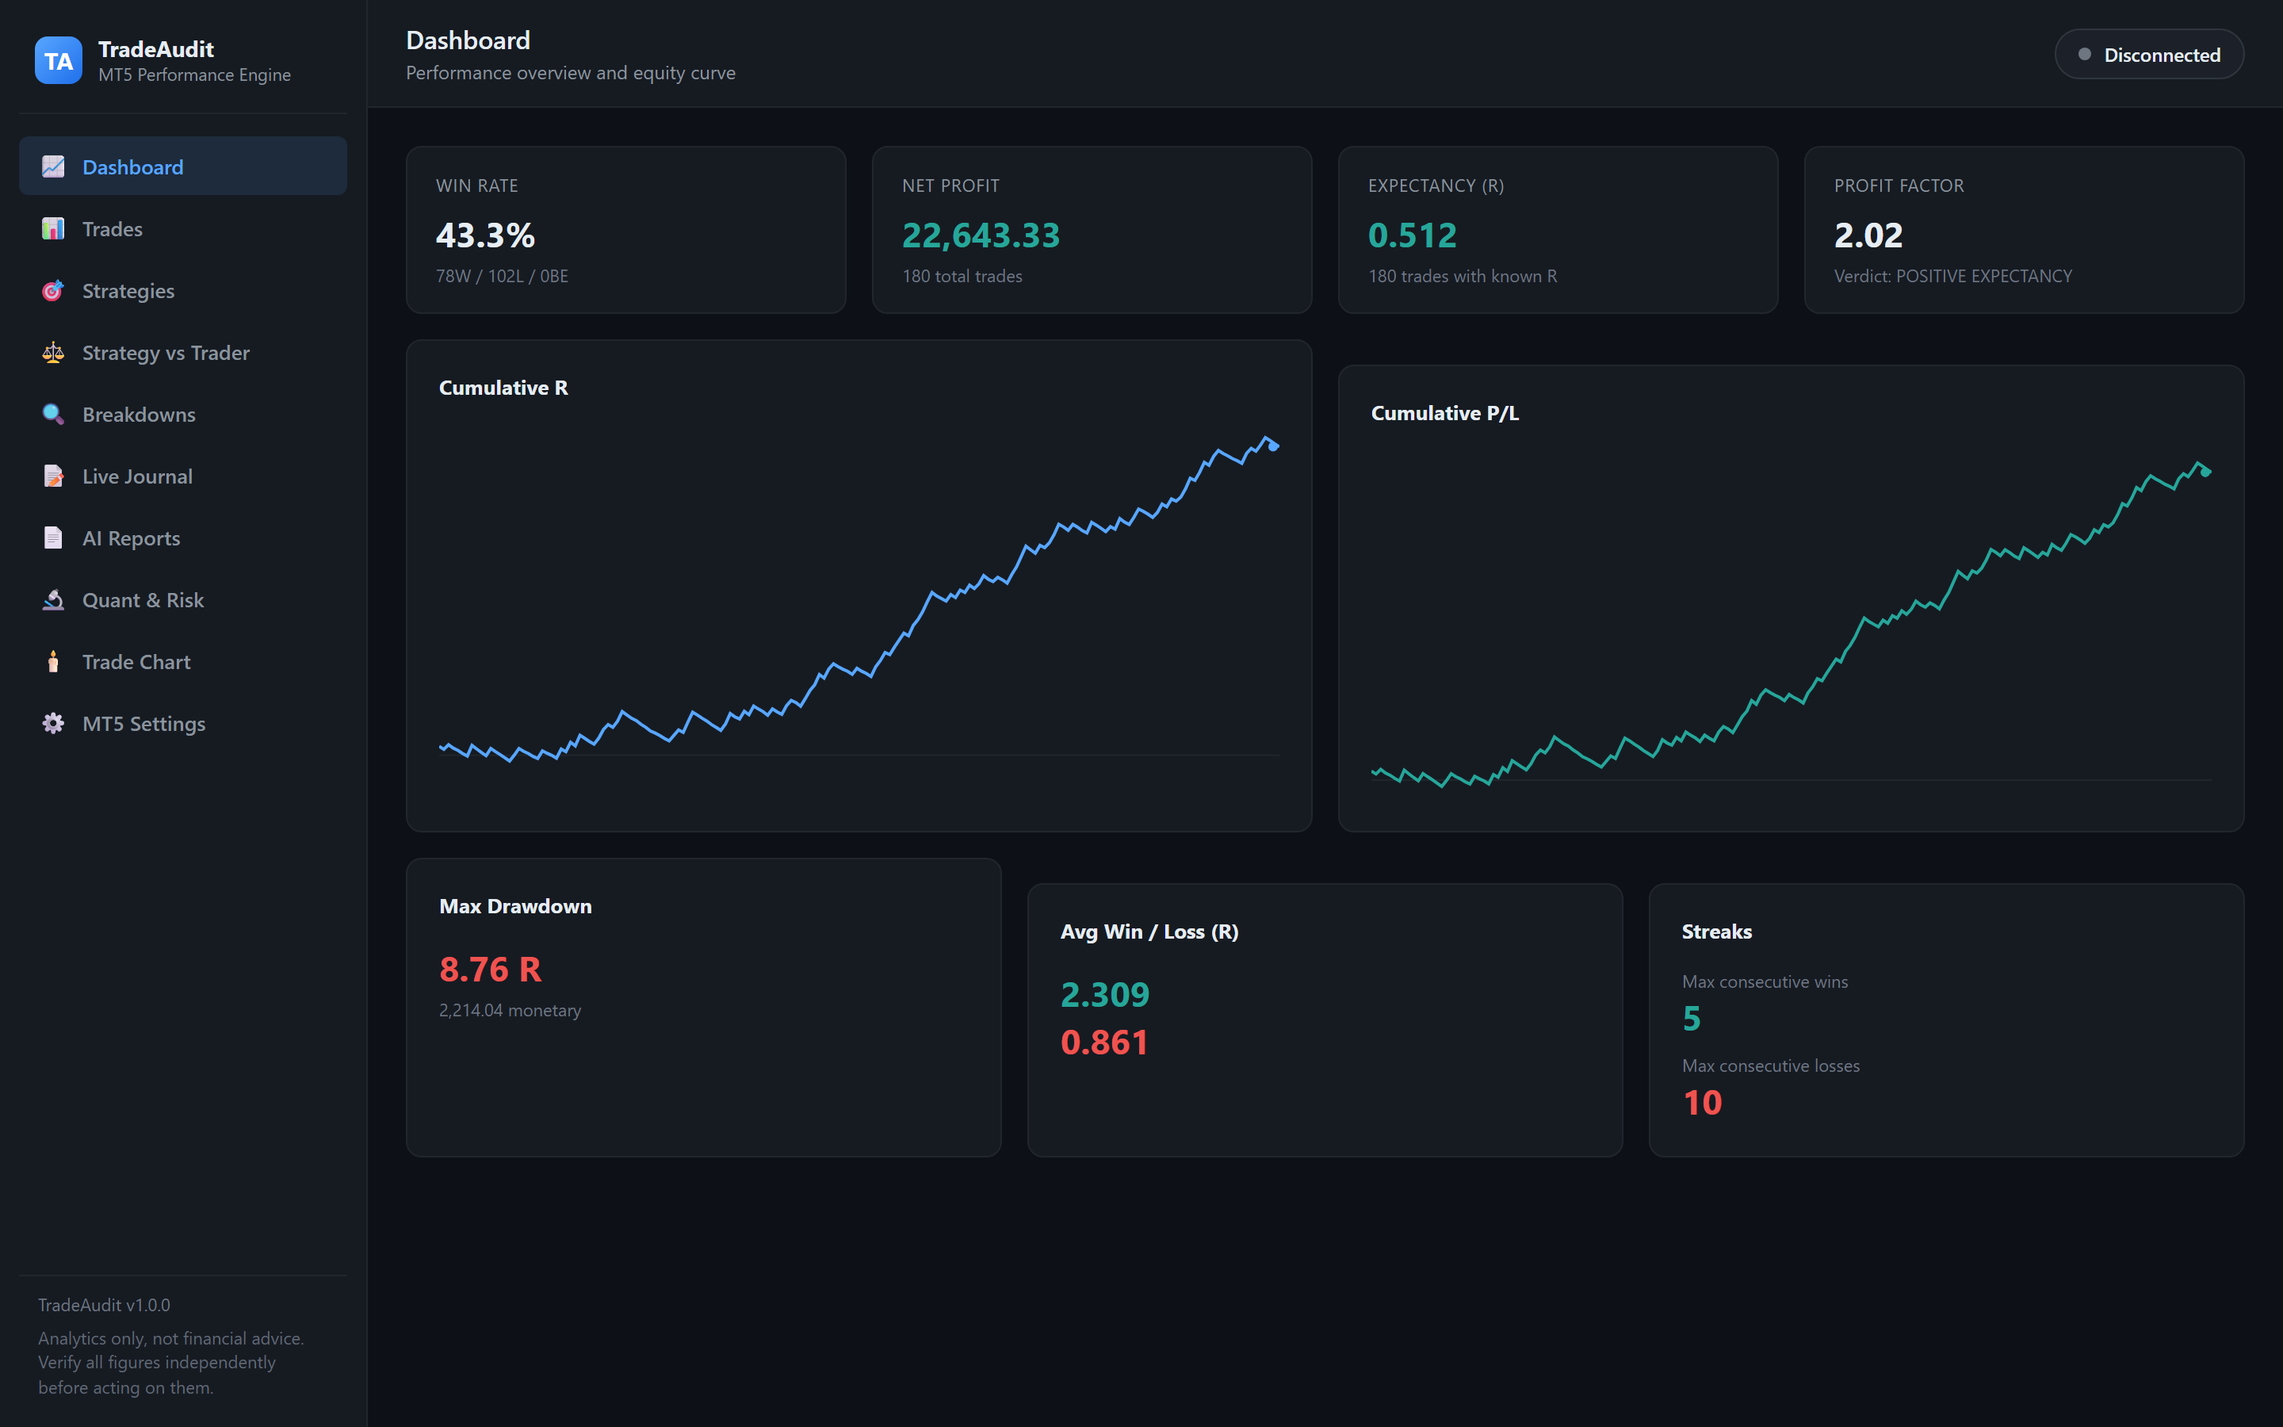
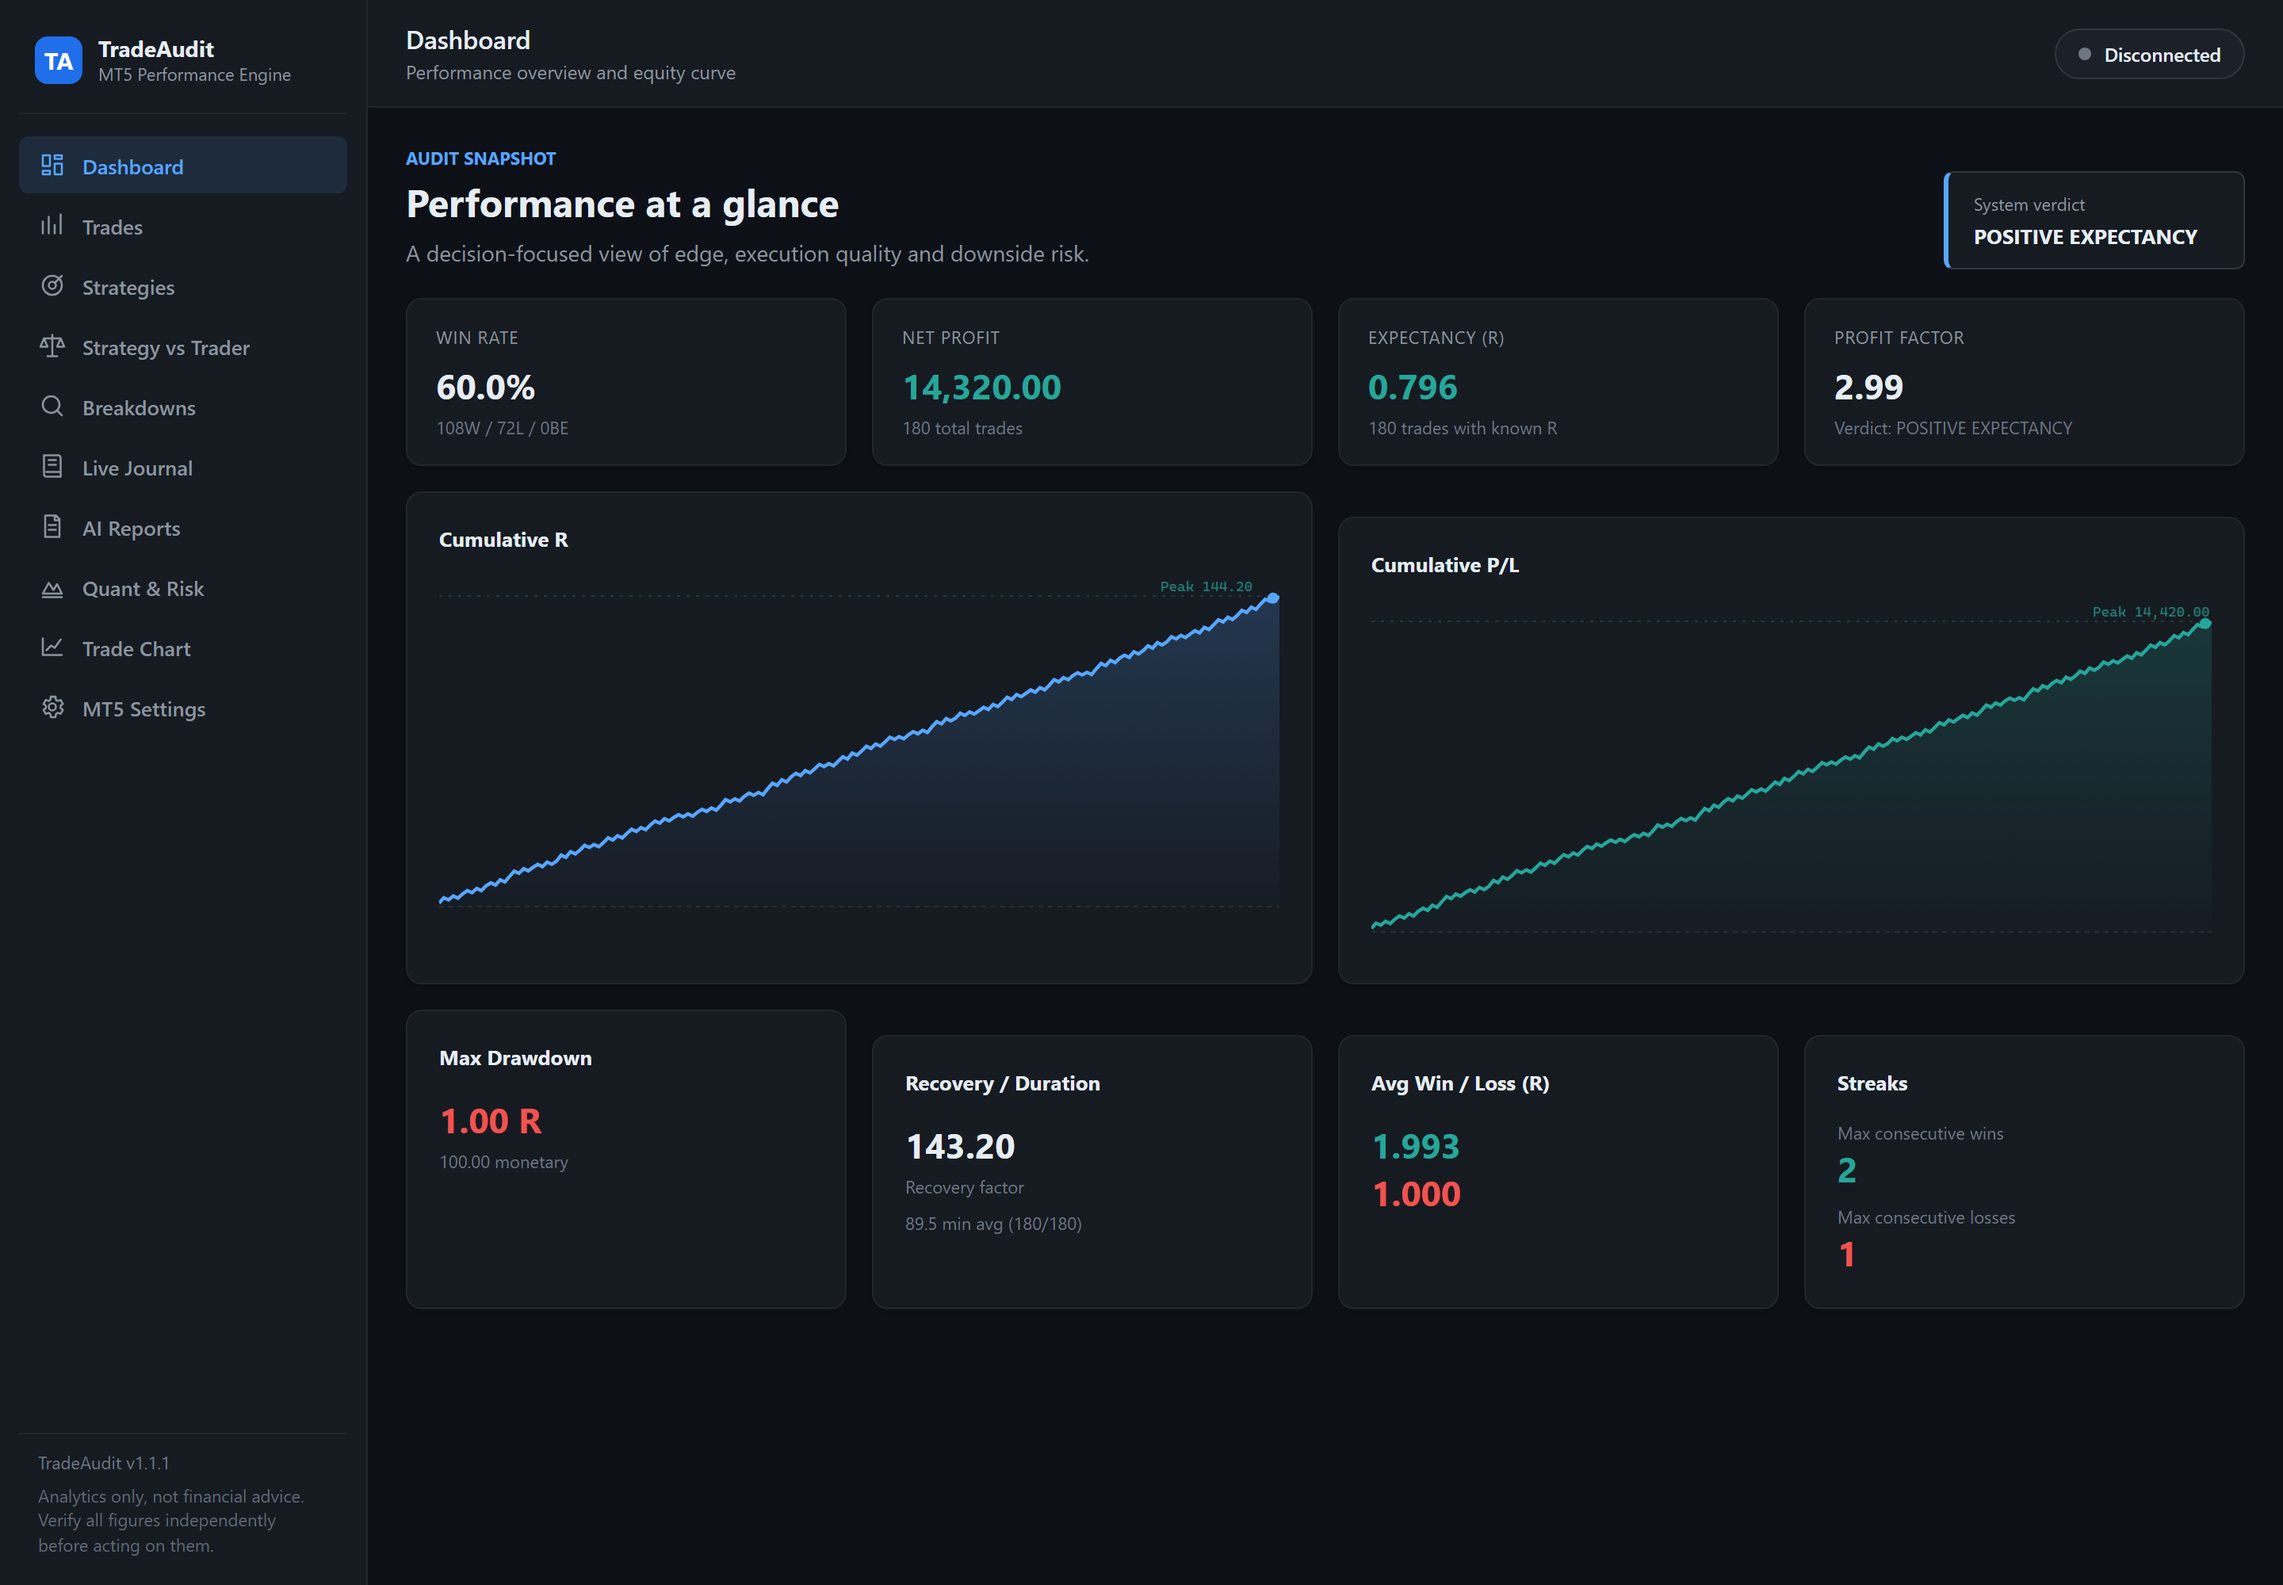
build: verify release bundles and refresh portfolio preview

diff --git a/scripts/capture_portfolio_screenshots.py b/scripts/capture_portfolio_screenshots.py
@@ -1,0 +1,123 @@
+"""Capture privacy-safe portfolio screenshots from deterministic synthetic trades."""
+
+from __future__ import annotations
+
+import argparse
+import random
+import socket
+import tempfile
+import threading
+import time
+from datetime import datetime, timedelta, timezone
+from pathlib import Path
+
+import uvicorn
+from playwright.sync_api import sync_playwright
+
+from tradeaudit.app.config import Settings
+from tradeaudit.domain.models import MT5Settings, Trade
+from tradeaudit.infrastructure.database.connection import DatabaseManager
+from tradeaudit.webui.context import AppContext
+from tradeaudit.webui.server import create_app
+
+
+def _free_port() -> int:
+    with socket.socket(socket.AF_INET, socket.SOCK_STREAM) as sock:
+        sock.bind(("127.0.0.1", 0))
+        return sock.getsockname()[1]
+
+
+def _demo_trades(account_id: int, count: int = 180) -> list[Trade]:
+    rng = random.Random(20261031)
+    start = datetime(2025, 1, 6, 8, 0, tzinfo=timezone.utc)
+    symbols = ("EURUSD", "GBPUSD", "USDJPY", "XAUUSD")
+    trades: list[Trade] = []
+    for index in range(count):
+        is_win = index % 5 in (0, 1, 3)
+        realized_r = round(rng.uniform(1.2, 2.8), 2) if is_win else -1.0
+        open_time = start + timedelta(hours=index * 9)
+        trades.append(
+            Trade(
+                account_id=account_id,
+                position_id=100_000 + index,
+                symbol=symbols[index % len(symbols)],
+                direction="BUY" if index % 2 == 0 else "SELL",
+                volume=0.1,
+                open_time=open_time,
+                close_time=open_time + timedelta(minutes=45 + index % 90),
+                open_price=1.1,
+                close_price=1.101 if is_win else 1.0995,
+                initial_sl=1.099,
+                initial_tp=1.102,
+                profit=realized_r * 100,
+                monetary_risk=100,
+                realized_r=realized_r,
+                status="CLOSED",
+                compliance_status="COMPLIANT" if index % 7 else "DEVIATION",
+                emotion_tag="CALM" if index % 6 else "FOMO",
+            )
+        )
+    return trades
+
+
+def capture(output_dir: Path) -> Path:
+    output_dir.mkdir(parents=True, exist_ok=True)
+    with tempfile.TemporaryDirectory(prefix="tradeaudit-portfolio-") as tmp:
+        data_dir = Path(tmp)
+        settings = Settings(
+            env="testing",
+            debug=False,
+            data_dir=data_dir,
+            database_url=f"sqlite:///{data_dir / 'portfolio.db'}",
+        )
+        settings.ensure_directories()
+        database = DatabaseManager(settings)
+        database.init_db()
+        context = AppContext(settings=settings, db_manager=database)
+        account_id = 424_242
+        context.trade_repo.save_trades(account_id, _demo_trades(account_id))
+        context.settings_repo.save_mt5_settings(MT5Settings(login=account_id, server="Portfolio-Demo"))
+
+        port = _free_port()
+        server = uvicorn.Server(
+            uvicorn.Config(create_app(context), host="127.0.0.1", port=port, log_level="warning")
+        )
+        thread = threading.Thread(target=server.run, daemon=True)
+        thread.start()
+        deadline = time.monotonic() + 10
+        while not server.started and thread.is_alive() and time.monotonic() < deadline:
+            time.sleep(0.05)
+        if not server.started:
+            raise RuntimeError("Screenshot server failed to start.")
+
+        dashboard = output_dir / "01-dashboard.png"
+        try:
+            with sync_playwright() as playwright:
+                browser = playwright.chromium.launch()
+                page = browser.new_page(
+                    viewport={"width": 1440, "height": 1000},
+                    device_scale_factor=2,
+                )
+                page.goto(f"http://127.0.0.1:{port}/#dashboard")
+                page.wait_for_selector("#dashboard-heading", timeout=15_000)
+                page.wait_for_timeout(500)
+                page.screenshot(path=str(dashboard), full_page=False)
+                browser.close()
+        finally:
+            server.should_exit = True
+            thread.join(timeout=5)
+            database.close()
+        return dashboard
+
+
+def main() -> int:
+    parser = argparse.ArgumentParser(description=__doc__)
+    parser.add_argument("--output-dir", type=Path, default=Path("docs/images"))
+    args = parser.parse_args()
+    screenshot = capture(args.output_dir.resolve())
+    print(f"Captured {screenshot}")
+    return 0
+
+
+if __name__ == "__main__":
+    raise SystemExit(main())

diff --git a/scripts/verify_release_bundle.py b/scripts/verify_release_bundle.py
@@ -1,0 +1,64 @@
+"""Fail a build when the Windows bundle is incomplete or version metadata drifts."""
+
+from __future__ import annotations
+
+import argparse
+import re
+import tomllib
+from pathlib import Path
+
+
+REQUIRED_STATIC_ASSETS = ("index.html", "app.js", "styles.css")
+
+
+def source_version(project_root: Path) -> str:
+    init_text = (project_root / "src" / "tradeaudit" / "__init__.py").read_text(encoding="utf-8")
+    match = re.search(r'__version__\s*=\s*"([^"]+)"', init_text)
+    if not match:
+        raise ValueError("Could not read __version__ from src/tradeaudit/__init__.py")
+    return match.group(1)
+
+
+def verify_version_metadata(project_root: Path) -> str:
+    version = source_version(project_root)
+    with (project_root / "pyproject.toml").open("rb") as handle:
+        package_version = tomllib.load(handle)["project"]["version"]
+    if package_version != version:
+        raise ValueError(f"Version mismatch: __init__={version}, pyproject={package_version}")
+
+    installer_text = (project_root / "installer" / "TradeAudit.iss").read_text(encoding="utf-8")
+    installer_match = re.search(r'#define MyAppVersion\s+"([^"]+)"', installer_text)
+    if installer_match and installer_match.group(1) != version:
+        raise ValueError(
+            f"Version mismatch: __init__={version}, installer={installer_match.group(1)}"
+        )
+    return version
+
+
+def verify_bundle(project_root: Path, bundle_dir: Path) -> list[Path]:
+    version = verify_version_metadata(project_root)
+    executable = bundle_dir / "TradeAudit.exe"
+    if not executable.is_file() or executable.stat().st_size == 0:
+        raise ValueError(f"Missing or empty executable: {executable}")
+
+    discovered = {path.name: path for path in bundle_dir.rglob("*") if path.is_file()}
+    missing = [name for name in REQUIRED_STATIC_ASSETS if name not in discovered]
+    if missing:
+        raise ValueError(f"Bundle is missing required web assets: {', '.join(missing)}")
+
+    verified = [executable, *(discovered[name] for name in REQUIRED_STATIC_ASSETS)]
+    print(f"Verified TradeAudit v{version} bundle ({len(verified)} critical files).")
+    return verified
+
+
+def main() -> int:
+    parser = argparse.ArgumentParser(description=__doc__)
+    parser.add_argument("--project-root", type=Path, default=Path.cwd())
+    parser.add_argument("--bundle-dir", type=Path, default=Path("dist/TradeAudit"))
+    args = parser.parse_args()
+    verify_bundle(args.project_root.resolve(), args.bundle_dir.resolve())
+    return 0
+
+
+if __name__ == "__main__":
+    raise SystemExit(main())

diff --git a/tests/unit/test_release_bundle_verifier.py b/tests/unit/test_release_bundle_verifier.py
@@ -1,0 +1,60 @@
+"""Tests for release artifact completeness and version consistency checks."""
+
+from pathlib import Path
+
+import pytest
+
+from scripts.verify_release_bundle import verify_bundle, verify_version_metadata
+from scripts.capture_portfolio_screenshots import _demo_trades
+
+
+def _project(root: Path, *, py_version: str = "1.2.3", installer_version: str = "1.2.3") -> Path:
+    (root / "src" / "tradeaudit").mkdir(parents=True)
+    (root / "installer").mkdir()
+    (root / "src" / "tradeaudit" / "__init__.py").write_text(
+        f'__version__ = "{py_version}"\n', encoding="utf-8"
+    )
+    (root / "pyproject.toml").write_text(
+        f'[project]\nname = "tradeaudit"\nversion = "{py_version}"\n', encoding="utf-8"
+    )
+    (root / "installer" / "TradeAudit.iss").write_text(
+        f'#define MyAppVersion "{installer_version}"\n', encoding="utf-8"
+    )
+    return root
+
+
+def _bundle(root: Path, *, assets: tuple[str, ...] = ("index.html", "app.js", "styles.css")) -> Path:
+    bundle = root / "dist" / "TradeAudit"
+    static = bundle / "_internal" / "tradeaudit" / "webui" / "static"
+    static.mkdir(parents=True)
+    (bundle / "TradeAudit.exe").write_bytes(b"MZ-test")
+    for asset in assets:
+        (static / asset).write_text("test", encoding="utf-8")
+    return bundle
+
+
+def test_verify_bundle_accepts_complete_artifact(tmp_path):
+    project = _project(tmp_path)
+    verified = verify_bundle(project, _bundle(project))
+    assert {path.name for path in verified} == {"TradeAudit.exe", "index.html", "app.js", "styles.css"}
+
+
+def test_verify_bundle_rejects_missing_static_asset(tmp_path):
+    project = _project(tmp_path)
+    bundle = _bundle(project, assets=("index.html", "app.js"))
+    with pytest.raises(ValueError, match="styles.css"):
+        verify_bundle(project, bundle)
+
+
+def test_verify_version_metadata_rejects_installer_drift(tmp_path):
+    project = _project(tmp_path, installer_version="9.9.9")
+    with pytest.raises(ValueError, match="installer=9.9.9"):
+        verify_version_metadata(project)
+
+
+def test_portfolio_dataset_is_deterministic_and_anonymous():
+    first = _demo_trades(424_242, count=12)
+    second = _demo_trades(424_242, count=12)
+    assert [trade.realized_r for trade in first] == [trade.realized_r for trade in second]
+    assert {trade.account_id for trade in first} == {424_242}
+    assert all(trade.status == "CLOSED" for trade in first)

diff --git a/README.md b/README.md
@@ -24,6 +24,10 @@ trade log.
 
 ![TradeAudit Dashboard](docs/images/01-dashboard.png)
 
+The portfolio dashboard is captured from a deterministic synthetic dataset—no
+broker, account, or personal trading data is committed. It can be regenerated
+with `python -m scripts.capture_portfolio_screenshots`.
+
 ---
 
 ## 💡 The Core Problem TradeAudit Solves
